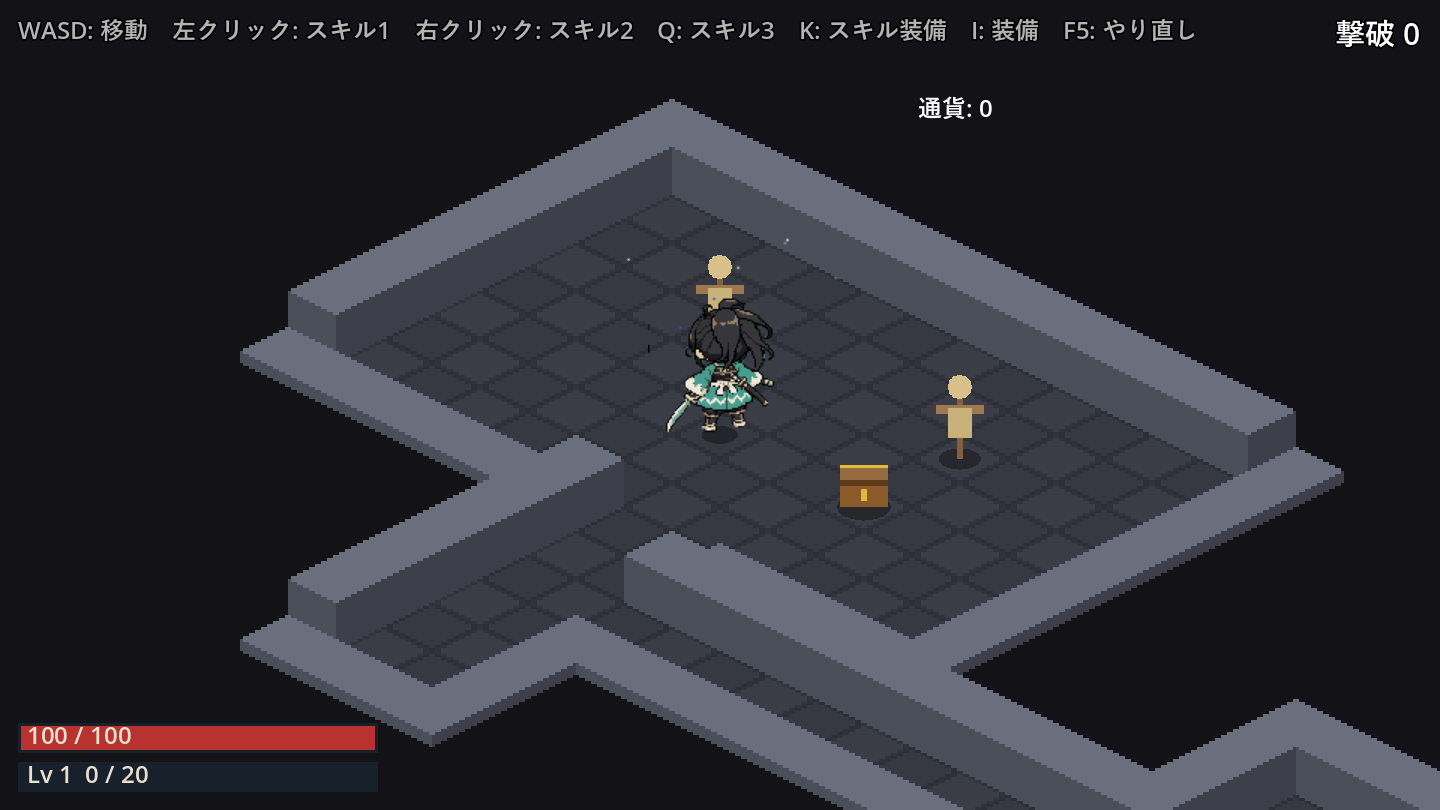
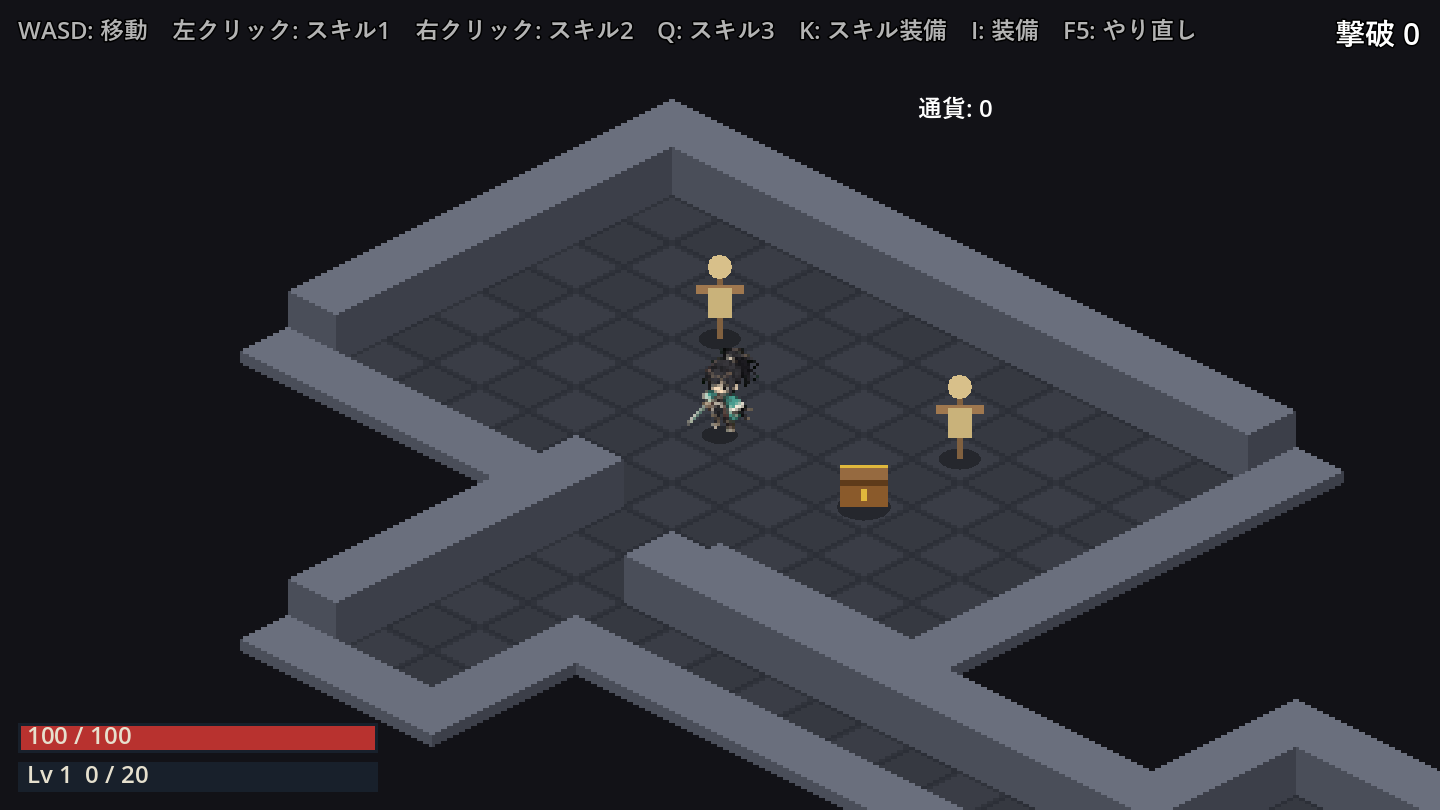
プレイヤーの絵を縮めて小さくする(30x30)。高解像度の元は player_hi_*.png に残す
make_small.py で大きさを変えて作り直せる。

Changed region(s): [[0.4688, 0.3704, 0.5312, 0.5247]]

diff --git a/art/sprites/player/make_small.py b/art/sprites/player/make_small.py
@@ -1,0 +1,24 @@
+# 高解像度の侍の絵（player_hi_*.png、96x96）を、ゲームで使う大きさに縮めて player_*.png に書き出す。
+#   python art/sprites/player/make_small.py        （既定 30）
+#   python art/sprites/player/make_small.py 36     （大きさを変えたいとき。数字は1辺のドット数）
+# 縮め方：透明部分の色が混ざらないようアルファ付きで平均し、縁は半透明にせず（アルファ0.45以上で不透明）、ドット絵の輪郭を保つ。
+# 大きさを変えたら、scripts/player/player.gd の SPRITE_SIZE も同じ数字に合わせる。
+import os, sys
+import numpy as np
+from PIL import Image
+
+SIZE = int(sys.argv[1]) if len(sys.argv) > 1 else 30
+here = os.path.dirname(os.path.abspath(__file__))
+
+for name in ('front', 'back', 'side'):
+    im = Image.open(os.path.join(here, 'player_hi_%s.png' % name)).convert('RGBA')
+    a = np.asarray(im).astype(np.float32) / 255.0
+    pm = a.copy()
+    pm[..., :3] *= a[..., 3:4]
+    chans = [np.asarray(Image.fromarray((pm[..., c] * 255).astype(np.uint8)).resize((SIZE, SIZE), Image.BOX)) for c in range(4)]
+    small = np.stack(chans, -1).astype(np.float32) / 255.0
+    al = small[..., 3:4]
+    rgb = np.where(al > 0.01, small[..., :3] / np.maximum(al, 1e-4), 0)
+    out = np.concatenate([np.clip(rgb, 0, 1), (al > 0.45).astype(np.float32)], -1)
+    Image.fromarray((out * 255).round().astype(np.uint8), 'RGBA').save(os.path.join(here, 'player_%s.png' % name))
+print('ok', SIZE)
